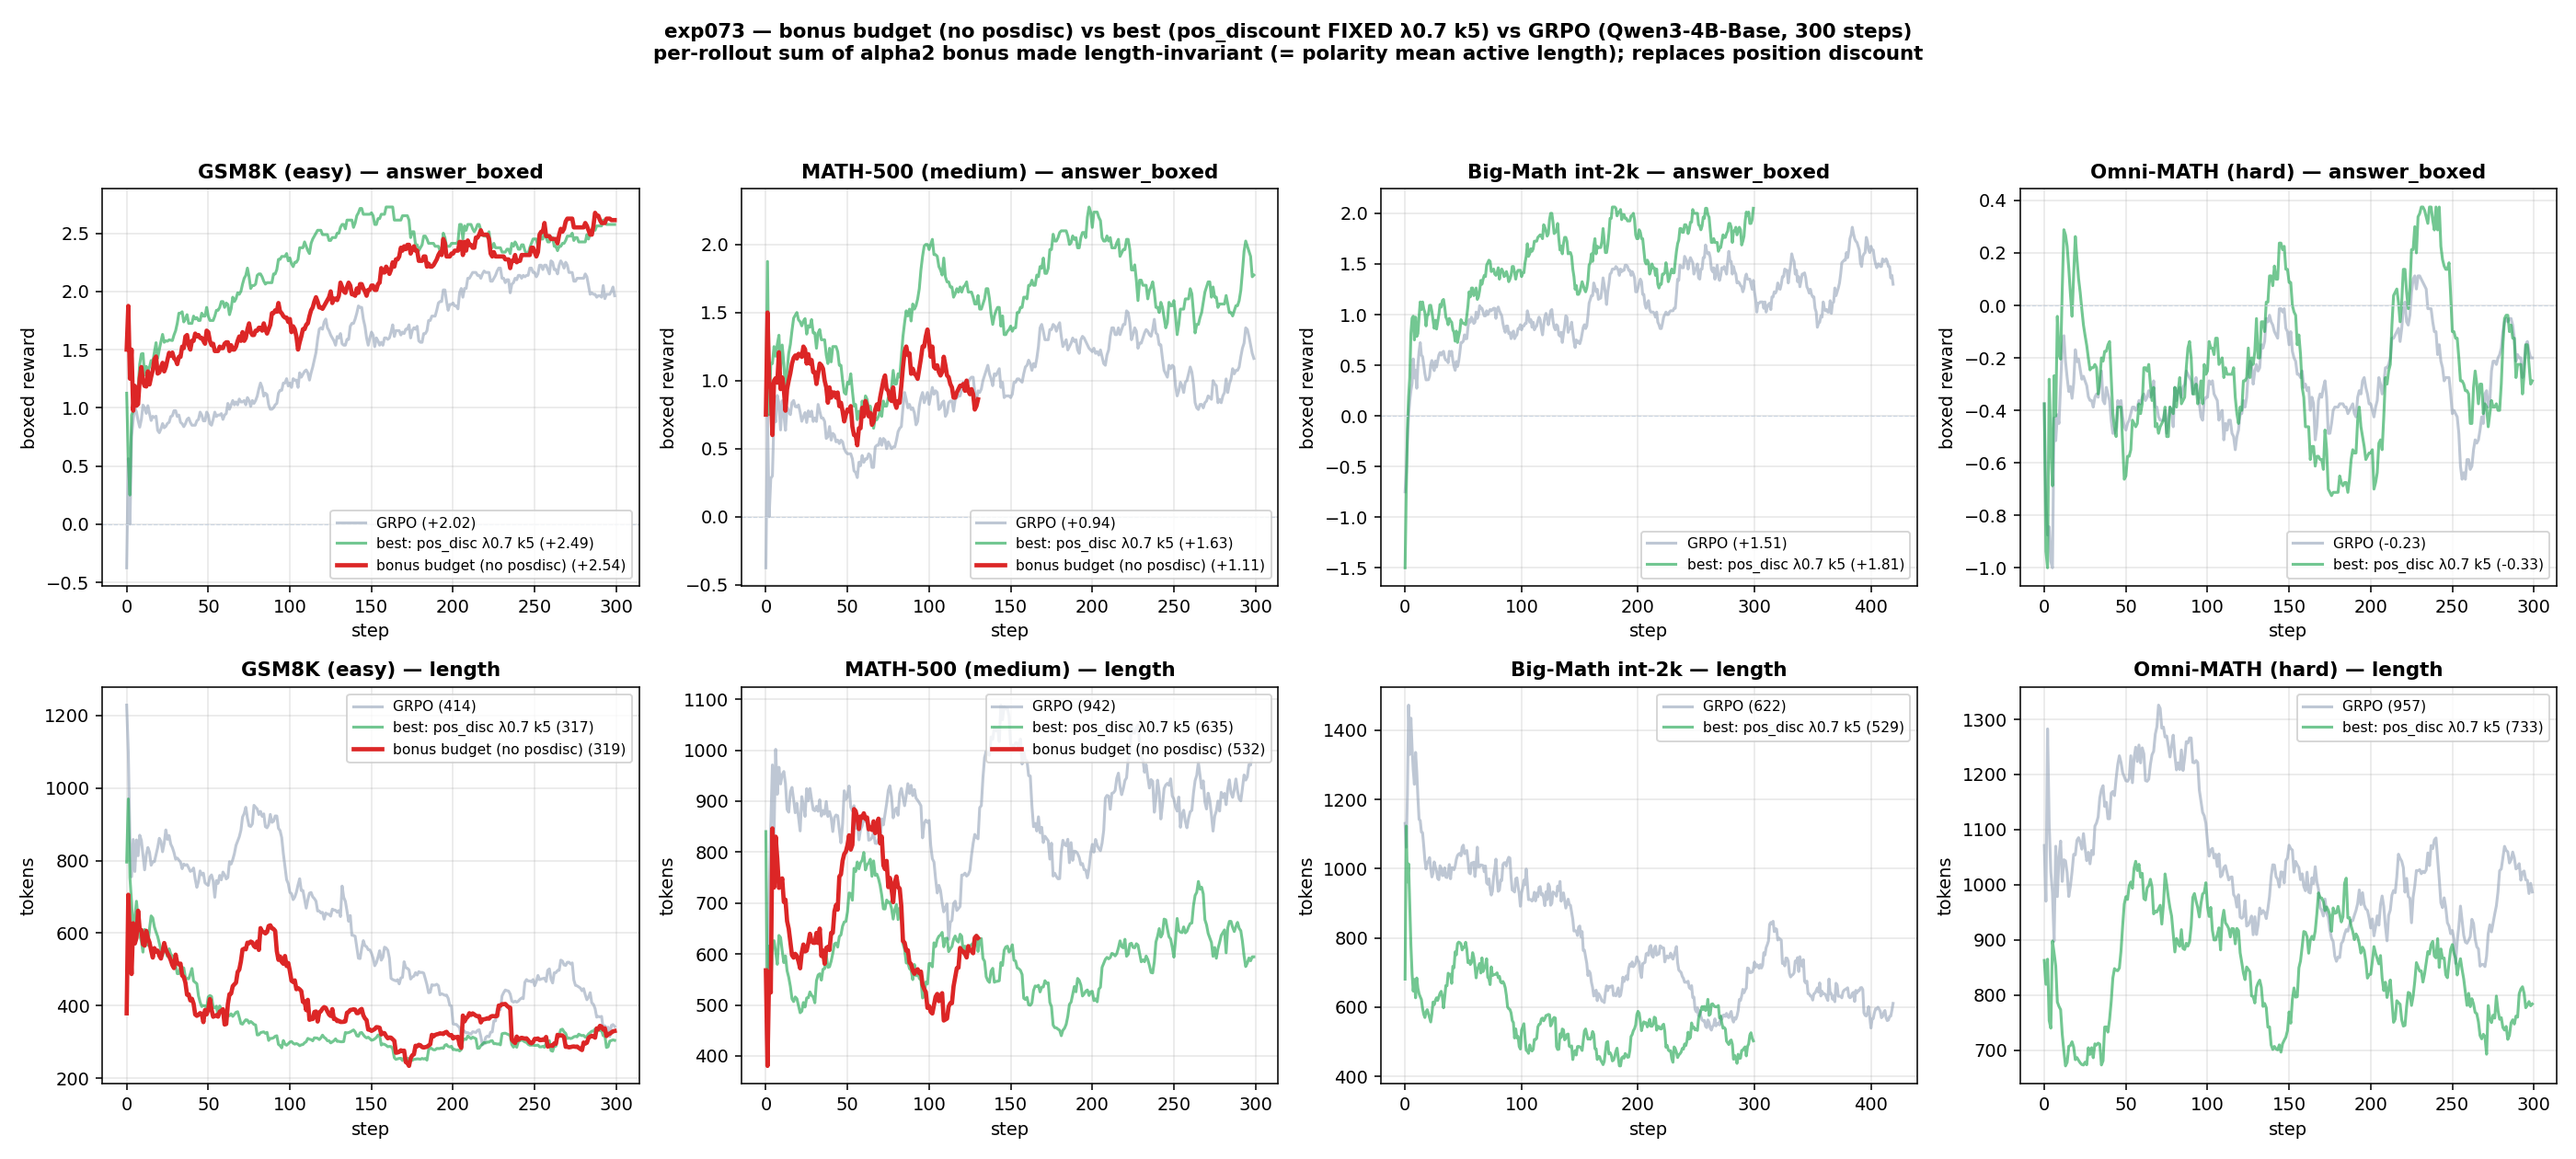
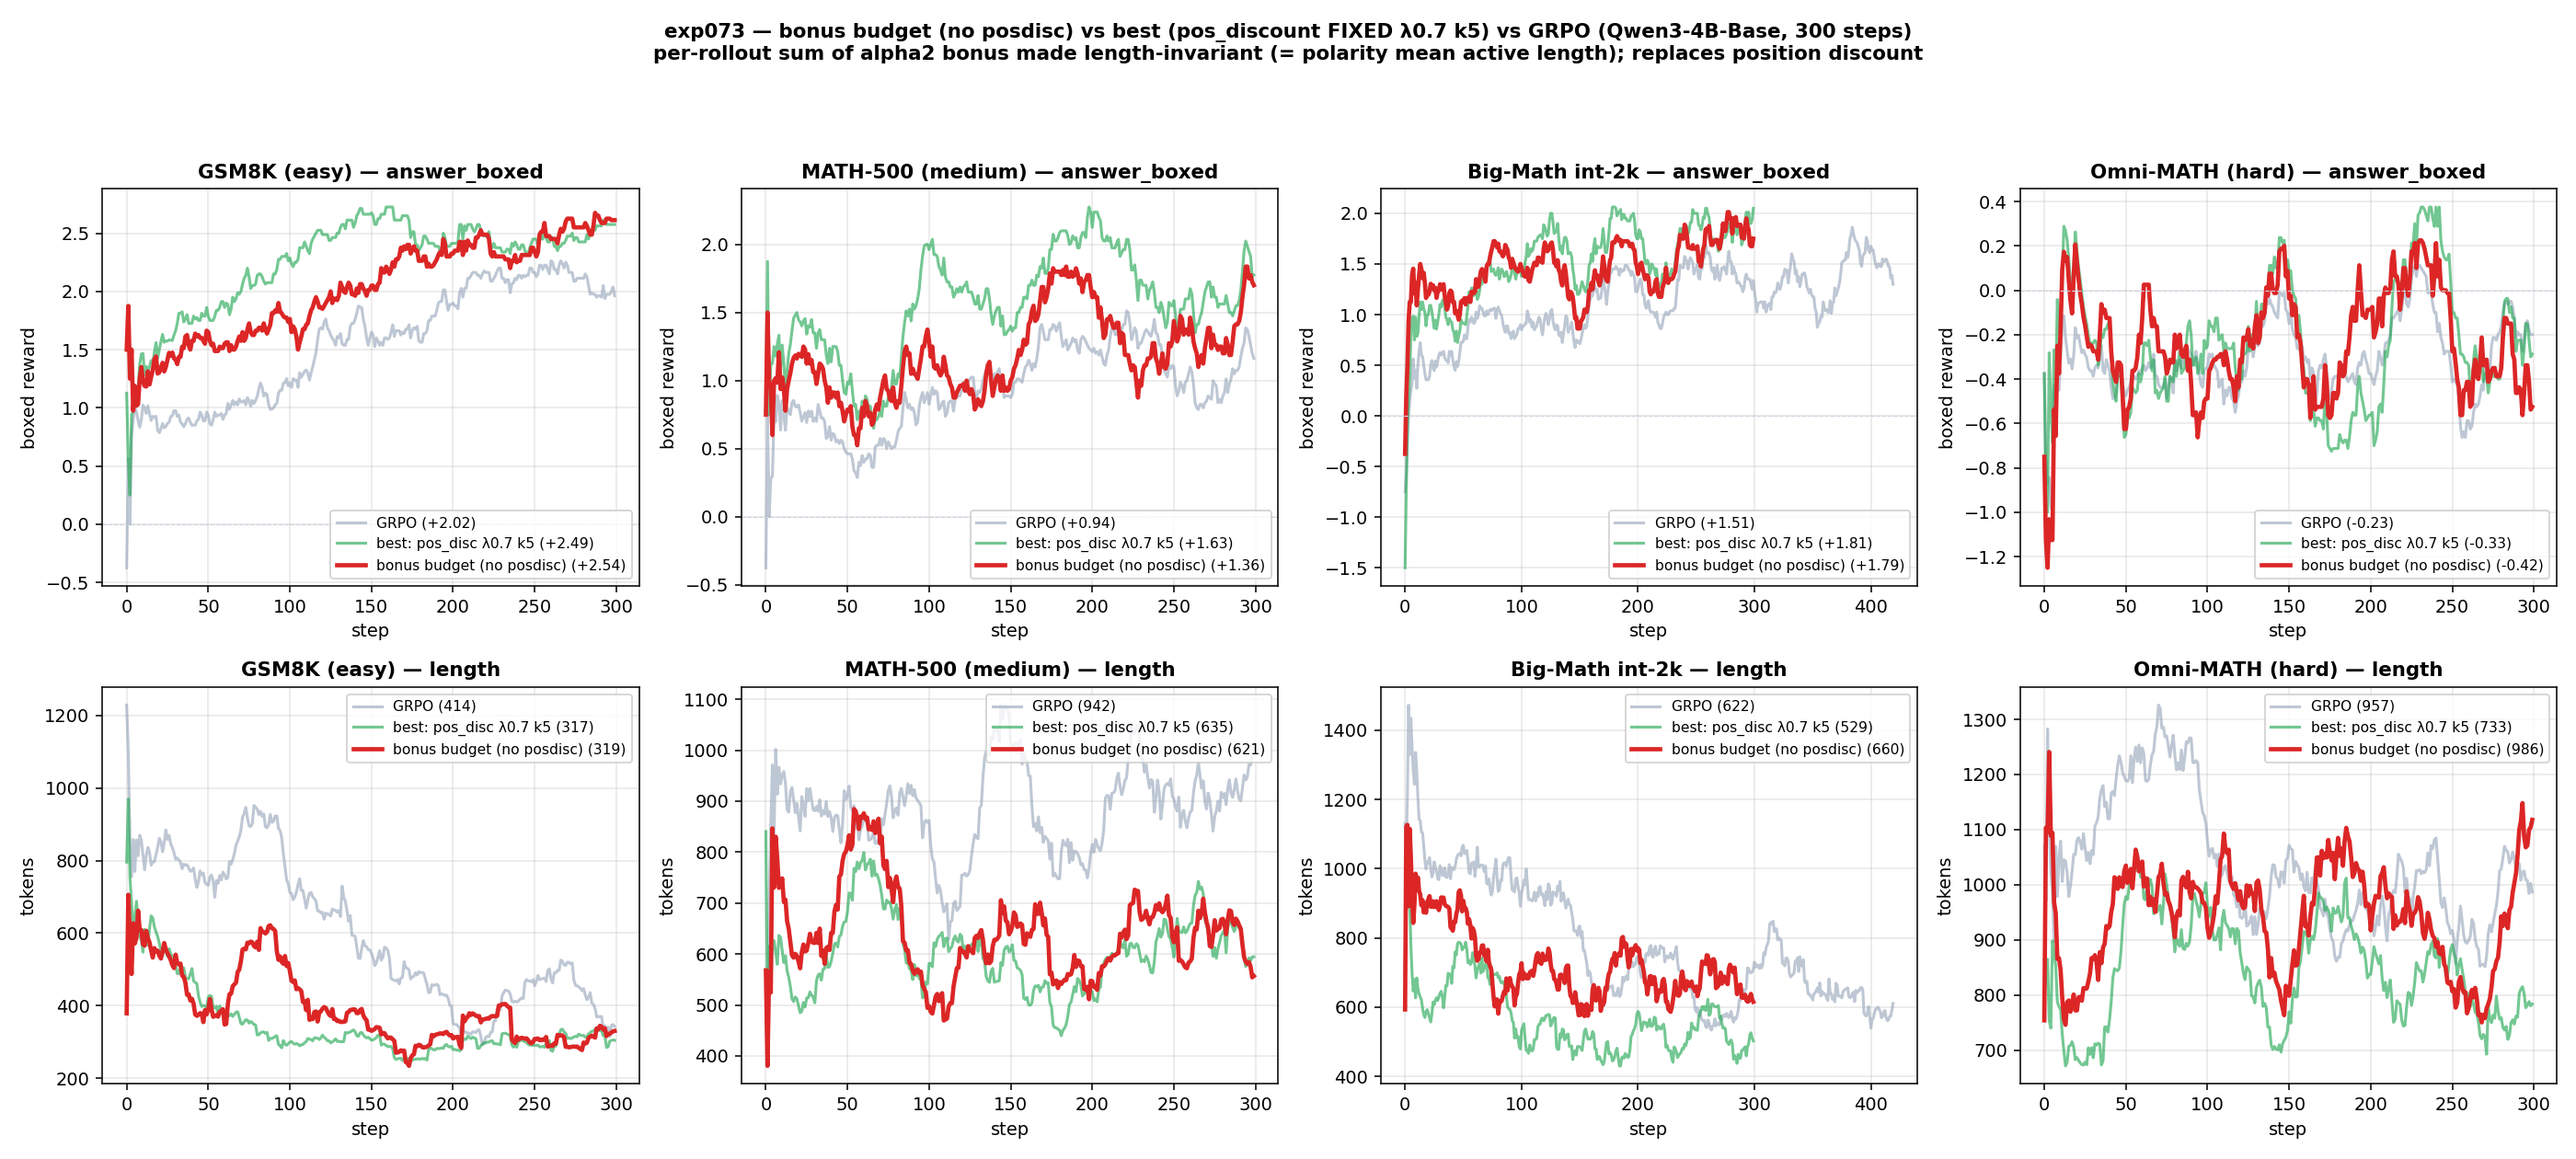
roadmap FINAL (071-075) + DAPO partial: fill results/plots
073 flipped_budget: gsm8k +2.54 (beats posdisc), math500 -0.27 below
074 surprisal_credit: NEGATIVE (worse than GRPO on 3/4) -> head stat matters, not sampled-token surprisal
075 final_combo: most balanced shaped method, ties posdisc on omnimath, no collapse
076 DAPO baseline: gsm8k +1.57 (BELOW GRPO +2.02, longer 620 vs 414); math500 running

diff --git a/experiments/exp_075_final_combo/README.md b/experiments/exp_075_final_combo/README.md
@@ -12,6 +12,19 @@ there, re-assembly is cheap (config-level).
 **Run:** `bash run_setup.sh`, `python plot_compare.py` → `figures/exp075_final_combo.png`
 (vs best posdisc λ0.7 k5 + GRPO). Metrics: `final_combo/gated`, `final_combo/mean_h`.
 
-## Results
+## Results (300 steps, L50 boxed / len)
 
-_(in progress)_
+| dataset | GRPO | best (posdisc λ0.7 k5) | **final_combo (gate+branch+budget)** |
+|---|---|---|---|
+| gsm8k    | +2.02 / 414 | +2.49 / 317 | +2.35 / 301 |
+| math500  | +0.94 / 942 | **+1.63** / 635 | +1.49 / 585 |
+| bigmath  | +1.51 / 622 | **+1.81** / 529 | +1.78 / 578 |
+| omnimath | **−0.23** / 957 | −0.33 / 733 | −0.34 / 822 |
+
+**Most BALANCED shaped method** — no dataset collapse, competitive everywhere, and on
+omnimath (−0.34) it matches posdisc and is the best-behaved shaped run on the hard set (the
+gate removes the zero-variance noise, the bounded branching signal removes the reciprocal
+pathology). But it does NOT beat the tuned posdisc overall (below on gsm8k/math500/bigmath).
+The three principled ingredients (gate + bounded h + budget) give ROBUSTNESS and a clean
+theoretical story rather than a raw win over the well-tuned heuristic — exactly the
+safety/principle narrative for the paper, with α₂ still un-tuned for the h-scale.

diff --git a/experiments/exp_074_surprisal_credit/README.md b/experiments/exp_074_surprisal_credit/README.md
@@ -11,6 +11,18 @@ logprob gather) → cheapest method in the family. posdisc λ0.7 kept.
 **Run:** `bash run_setup.sh`, `python plot_compare.py` → `figures/exp074_surprisal_credit.png`.
 Metric `surprisal_credit/mean_s`.
 
-## Results
+## Results (300 steps, L50 boxed / len) — NEGATIVE
 
-_(in progress)_
+| dataset | GRPO | best (posdisc λ0.7 k5) | **surprisal_credit** |
+|---|---|---|---|
+| gsm8k    | +2.02 / 414 | **+2.49** / 317 | +2.06 / 375 |
+| math500  | +0.94 / 942 | **+1.63** / 635 | +0.51 / 600 |
+| bigmath  | +1.51 / 622 | **+1.81** / 529 | +0.81 / 630 |
+| omnimath | **−0.23** / 957 | −0.33 / 733 | −0.63 / 656 |
+
+**The cheap variant fails** (≈GRPO on gsm8k, WORSE than GRPO on math500/bigmath/omnimath).
+Additive per-polarity z(−log p(o_t)) is too weak/noisy a signal: the realized-token
+surprisal is dominated by routine high-prob tokens, and z-normalizing it injects
+low-information direction that the head-truncated C avoids. Takeaway: the value is in the
+top-k HEAD statistic (C / branching h), not the single sampled-token surprisal — quantifies
+what the extra forward buys. Confirms exp_072's head-signal as the right estimator.

diff --git a/experiments/exp_073_bonus_budget/README.md b/experiments/exp_073_bonus_budget/README.md
@@ -11,6 +11,18 @@ budget vs posdisc, both vs GRPO).
 
 **Run:** `bash run_setup.sh`, `python plot_compare.py` → `figures/exp073_flipped_budget.png`.
 
-## Results
+## Results (300 steps, L50 boxed / len)
 
-_(in progress)_
+| dataset | GRPO | best (posdisc λ0.7 k5) | **flipped_budget (no posdisc)** |
+|---|---|---|---|
+| gsm8k    | +2.02 / 414 | +2.49 / 317 | **+2.54 / 319** |
+| math500  | +0.94 / 942 | **+1.63** / 635 | +1.36 / 621 |
+| bigmath  | +1.51 / 622 | **+1.81** / 529 | +1.79 / 660 |
+| omnimath | **−0.23** / 957 | −0.33 / 733 | −0.42 / 986 |
+
+**Length-invariant budget BEATS the tuned posdisc on gsm8k (+2.54, new best there)** and
+ties on bigmath (+1.79 vs +1.81), confirming the budget is a valid principled replacement
+for the hyperbolic position discount (no length farming — lengths comparable). But it is
+below posdisc on math500 (+1.36) — removing the position decay entirely costs medium-hardness
+accuracy. Best used TOGETHER with a mild posdisc rather than as a full replacement (a budget
++ light posdisc variant is the natural follow-up).
